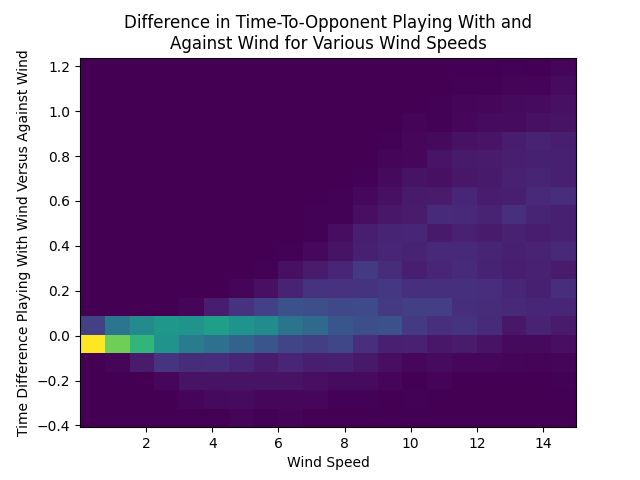
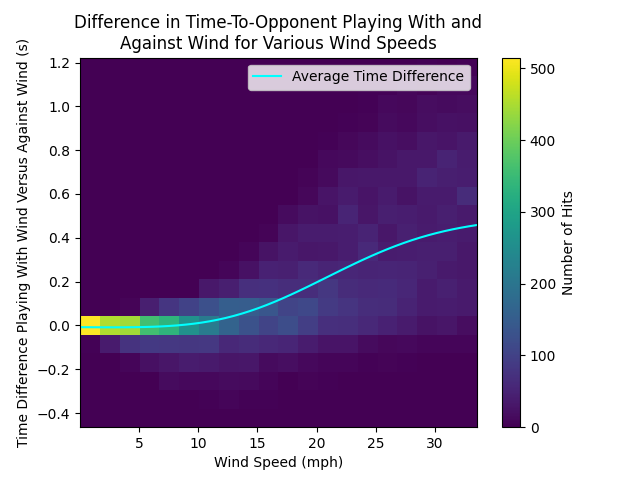
Got times plot, trajectory plots, working on initial speeds

diff --git a/pickleball.py b/pickleball.py
@@ -3,6 +3,7 @@ import numpy.typing as npt
 import scipy.integrate as si
 import scipy.optimize as so
 import matplotlib.pyplot as plt
+import matplotlib.typing as ty
 # from mayavi import mlab
 from tqdm import tqdm
 
@@ -14,38 +15,32 @@ def main() -> None:
     INITIAL_SPEED_GUESS = 10.0
     COURT_LENGTH = f2m(44.0)
     GRAVITY = 9.81
-    N_RANDOM_SAMPLES = 1000
+    N_RANDOM_SAMPLES = 10000
+    KDE_STDEV = 2.0
+    MAX_WIND = 15.0
     
     print(f"Drag Coefficient: {DRAG_COEF} 1/m")
     
     # Plot the time difference histogram
-    time_difference_plot(N_RANDOM_SAMPLES, T_MIN, T_MAX, DRAG_COEF, GRAVITY, COURT_LENGTH, INITIAL_SPEED_GUESS)
+    # time_difference_plot(N_RANDOM_SAMPLES, MAX_WIND, T_MIN, T_MAX, DRAG_COEF, GRAVITY, COURT_LENGTH, INITIAL_SPEED_GUESS, KDE_STDEV)
     
-    # ax.set_xlabel("Initial Position (m)")
-    # ax.set_ylabel("Launch Angle (rad)")
-    # ax.set_zlabel("Time to Opponent (s)")
-    # ax.legend()
-    # plt.show()
+    # Plot the initial speed histogram
     
-    # # Plot results
-    # times_before_opponent = np.linspace(0.0, output.t_events[1][0], 100)
-    # times_after_opponent = np.linspace(output.t_events[1][0], output.t_events[0][0], 100)
-    # # Plot the ball trajectory
-    # plt.plot((output.sol(times_before_opponent)[NUM["x"]]), (output.sol(times_before_opponent)[NUM["y"]]), c="b")
-    # plt.plot((output.sol(times_after_opponent)[NUM["x"]]), (output.sol(times_after_opponent)[NUM["y"]]), c=(0.5,) * 3, ls=":")
-    # # Plot the court
-    # plt.axhline(0.0, c="k")
-    # plt.axvline(0.0, c="k")
-    # plt.axvline((COURT_LENGTH), c="k")
-    # plt.plot((COURT_LENGTH / 2.0, COURT_LENGTH / 2.0), (0.0, f2m(3.0)), c="k")
-    # # Show collision with opponent
-    # plt.scatter((output.y_events[1][0][0]), (output.y_events[1][0][2]), s=25, c="k", zorder=10)
-    # plt.text((output.y_events[1][0][0]), (output.y_events[1][0][2]), f"  {output.t_events[1][0]:.2} seconds")
-    # # Formatting
-    # plt.xlabel(NAMES[NUM["x"]])
-    # plt.ylabel(NAMES[NUM["y"]])
-    # plt.title(f"Ball Trajectory (Wind = {wind:.0f} m/s)")
-    # plt.show()
+    
+    # Plot some trajectories
+    for wind in (-15.0, 15.0, -5.0, 5.0):
+        trajectory_plot(x0=0.0, 
+                        angle=np.deg2rad(15.0), 
+                        y0=1.0, 
+                        opponent=f2m(40.0), 
+                        wind=wind, 
+                        tmin=T_MIN, 
+                        tmax=T_MAX, 
+                        drag_coef=DRAG_COEF, 
+                        gravity=GRAVITY, 
+                        court_length=COURT_LENGTH, 
+                        initial_speed_guess=INITIAL_SPEED_GUESS)
+    
     
     # # Plot speed over time
     # plt.plot(times_before_opponent, 
@@ -103,27 +98,71 @@ def main() -> None:
     # mlab.axes(xlabel="Initial Position", ylabel="Launch Angle", zlabel="Time to Opponent")
     # mlab.show()
 
+def kde(x: npt.ArrayLike, points: npt.ArrayLike, stdev: float) -> npt.ArrayLike:
+    points = np.asarray(points)
+    
+    return (np.sum(points[1, np.newaxis] * np.exp(-0.5 * ((points[0, np.newaxis] - x[:, np.newaxis]) / stdev) ** 2.0), axis=1)
+            / np.sum(np.exp(-0.5 * ((points[0, np.newaxis] - x[:, np.newaxis]) / stdev) ** 2.0), axis=1))
+
+def trajectory_plot(x0: float, 
+                    angle: float, 
+                    y0: float, 
+                    opponent: float, 
+                    tmin: float, 
+                    tmax: float, 
+                    drag_coef: float, 
+                    wind: float, 
+                    gravity: float, 
+                    court_length: float, 
+                    initial_speed_guess: float) -> None:
+    output = solve_system(x0, angle, y0, opponent, tmin, tmax, drag_coef, wind, gravity, court_length, initial_speed_guess)
+    
+    # Plot results
+    times_before_opponent = np.linspace(0.0, output.t_events[1][0], 100)
+    times_after_opponent = np.linspace(output.t_events[1][0], output.t_events[0][0], 100)
+    plt.figure()
+    # Plot the ball trajectory
+    plt.plot(m2f(output.sol(times_before_opponent)[0]), m2f(output.sol(times_before_opponent)[2]), c="b")
+    plt.plot(m2f(output.sol(times_after_opponent)[0]), m2f(output.sol(times_after_opponent)[2]), c=(0.5,) * 3, ls=":")
+    # Plot the court
+    plt.axhline(0.0, c="k")
+    plt.axvline(0.0, c="k")
+    plt.axvline(m2f(court_length), c="k")
+    plt.plot((m2f(court_length / 2.0), m2f(court_length / 2.0)), (0.0, 3.0), c="k")
+    # Show collision with opponent
+    plt.scatter(m2f(output.y_events[1][0][0]), m2f(output.y_events[1][0][2]), s=25, c="k", zorder=10)
+    plt.text(m2f(output.y_events[1][0][0]), m2f(output.y_events[1][0][2]), f"  {output.t_events[1][0]:.2} seconds")
+    # Formatting
+    plt.xlabel("Horizontal Position (feet)")
+    plt.ylabel("Vertical Position (feet)")
+    plt.title(f"Ball Trajectory (Wind = {wind:.0f} m/s)")
+    plt.savefig(f"Ball_Trajectory_wind_{wind:.0f}mps.png")
+
 def time_difference_plot(n_samples: int, 
+                         max_wind: float,
                          tmin: float, 
                          tmax: float, 
                          drag_coef: float, 
                          gravity: float, 
                          court_length: float, 
-                         initial_speed_guess: float) -> None:
+                         initial_speed_guess: float, 
+                         kde_stdev: float) -> None:
     """Plot the difference in time-to-opponent for a variety of wind speeds
 
     Args:
         n_samples (int): The number of random samples to calculate time for
+        max_wind (float): The maximum wind speed to plot
         tmin (float): The start time of the ODE solver
         tmax (float): The end time of the ODE solver
         drag_coef (float): The drag coefficient
         gravity (float): Gravitational acceleration
         court_length (float): The length of the court
         initial_speed_guess (float): The initial speed to guess when solving
+        kde_stdev (float): The standard deviation to use for kernel density estimation
     """
     
     # Initialize with random parameters
-    wind_rand = np.random.uniform(0.0, 15.0, n_samples)
+    wind_rand = np.random.uniform(0.0, max_wind, n_samples)
     x0_rand = np.random.uniform(0.0, f2m(15.0), n_samples)
     y0_rand = np.random.uniform(0.0, f2m(7.0), n_samples)
     angle_rand = np.random.uniform(np.deg2rad(0.0), np.deg2rad(30.0), n_samples)
@@ -160,11 +199,118 @@ def time_difference_plot(n_samples: int,
     
     print(f"{np.count_nonzero(np.isnan(times))} NaN events")
     
-    plt.hist2d(wind_rand[np.isfinite(times)], times[np.isfinite(times)], bins=20)
-    plt.xlabel("Wind Speed")
-    plt.ylabel("Time Difference Playing With Wind Versus Against Wind")
+    plt.hist2d(mps2mph(wind_rand[np.isfinite(times)]), times[np.isfinite(times)], bins=20)
+    wind_range = np.linspace(0.0, max_wind)
+    plt.plot(mps2mph(wind_range), 
+             kde(wind_range, (wind_rand[np.isfinite(times)], times[np.isfinite(times)]), kde_stdev), 
+             c="cyan", 
+             label="Average Time Difference")
+    plt.xlabel("Wind Speed (mph)")
+    plt.ylabel("Time Difference Playing With Wind Versus Against Wind (s)")
     plt.title("Difference in Time-To-Opponent Playing With and\nAgainst Wind for Various Wind Speeds")
-    plt.colorbar()
+    cbar = plt.colorbar()
+    cbar.set_label("Number of Hits")
+    plt.legend()
+    plt.show()
+
+def velocity_plot(n_samples: int, 
+                  max_wind: float,
+                  tmin: float, 
+                  tmax: float, 
+                  drag_coef: float, 
+                  gravity: float, 
+                  court_length: float, 
+                  initial_speed_guess: float, 
+                  kde_stdev: float) -> None:
+    """Plot the difference in time-to-opponent for a variety of wind speeds
+
+    Args:
+        n_samples (int): The number of random samples to calculate time for
+        max_wind (float): The maximum wind speed to plot
+        tmin (float): The start time of the ODE solver
+        tmax (float): The end time of the ODE solver
+        drag_coef (float): The drag coefficient
+        gravity (float): Gravitational acceleration
+        court_length (float): The length of the court
+        initial_speed_guess (float): The initial speed to guess when solving
+        kde_stdev (float): The standard deviation to use for kernel density estimation
+    """
+    
+    # Initialize with random parameters
+    wind_rand = np.random.uniform(0.0, max_wind, n_samples)
+    x0_rand = np.random.uniform(0.0, f2m(15.0), n_samples)
+    y0_rand = np.random.uniform(0.0, f2m(7.0), n_samples)
+    angle_rand = np.random.uniform(np.deg2rad(0.0), np.deg2rad(30.0), n_samples)
+    opponent_rand = np.random.uniform(f2m(29.0), f2m(44.0), n_samples)
+    
+    def hit_ground(_t: float, values: npt.ArrayLike, _drag_coef: float, _wind: float, gravity: float) -> float:
+        """Return the y position of the pickleball for detection of ground collision
+
+        Args:
+            - _t (float): Time at which to return the y position. Not used for returning y position
+            - values (npt.ArrayLike): The current values of [x position, x velocity, y position, y velocity]
+            - _drag_coef (float): The coefficient C used in the calculation of the drag force Cv**2. Not used for returning y position
+            - _wind (float): The wind velocity in the x direction. Not used for returning y position
+            - _gravity (float): Gravitational acceleration. Not used for returning y position
+
+        Returns:
+            - float: The y position of the pickleball
+        """
+        
+        return values[2]
+    hit_ground.terminal = True
+    
+    # Find velocity where ground touch is at end of court
+    optimal_speed = so.fsolve(lambda v: si.solve_ivp(derivatives, 
+                                                     (tmin, tmax), 
+                                                     (x0, v[0] * np.cos(angle), y0, v[0] * np.sin(angle)), 
+                                                     events=hit_ground, 
+                                                     args=(drag_coef, wind, gravity)).y_events[0][0][0] - court_length, 
+                              initial_speed_guess)[0]
+    
+    # Loop through and find times for all random params
+    times = np.zeros(n_samples)
+    for index, (wind, x0, y0, angle, opponent) in tqdm(enumerate(zip(wind_rand, x0_rand, y0_rand, angle_rand, opponent_rand))):
+        time_with_wind = solve_system(x0, 
+                                      angle, 
+                                      y0, 
+                                      opponent, 
+                                      tmin, 
+                                      tmax, 
+                                      drag_coef, 
+                                      wind, 
+                                      gravity, 
+                                      court_length, 
+                                      initial_speed_guess).t_events[1]
+        
+        time_against_wind = solve_system(x0, 
+                                         angle, 
+                                         y0, 
+                                         opponent, 
+                                         tmin, 
+                                         tmax, 
+                                         drag_coef, 
+                                         -wind, 
+                                         gravity, 
+                                         court_length, 
+                                         initial_speed_guess).t_events[1]
+        
+        times[index] = time_with_wind[0] - time_against_wind[0] if len(time_with_wind) > 0 and len(time_against_wind) > 0 else np.nan
+    
+    print(f"{np.count_nonzero(np.isnan(times))} NaN events")
+    
+    plt.hist2d(mps2mph(wind_rand[np.isfinite(times)]), times[np.isfinite(times)], bins=20)
+    wind_range = np.linspace(0.0, max_wind)
+    plt.plot(mps2mph(wind_range), 
+             kde(wind_range, (wind_rand[np.isfinite(times)], times[np.isfinite(times)]), kde_stdev), 
+             c="cyan", 
+             label="Average Time Difference")
+    plt.xlabel("Wind Speed (mph)")
+    plt.ylabel("Time Difference Playing With Wind Versus Against Wind (s)")
+    plt.title("Difference in Time-To-Opponent Playing With and\nAgainst Wind for Various Wind Speeds")
+    cbar = plt.colorbar()
+    cbar.set_label("Number of Hits")
+    plt.legend()
     plt.show()
 
 def solve_system(x0: float, 
@@ -177,7 +323,8 @@ def solve_system(x0: float,
                  wind: float, 
                  gravity: float, 
                  court_length: float, 
-                 inital_speed_guess: float) -> si._ivp.ivp.OdeResult:
+                 initial_speed_guess: float, 
+                 return_speed: bool = False) -> si._ivp.ivp.OdeResult | tuple[si._ivp.ivp.OdeResult, float]:
     def hit_ground(_t: float, values: npt.ArrayLike, _drag_coef: float, _wind: float, gravity: float) -> float:
         """Return the y position of the pickleball for detection of ground collision
 
@@ -217,14 +364,22 @@ def solve_system(x0: float,
                                                      (x0, v[0] * np.cos(angle), y0, v[0] * np.sin(angle)), 
                                                      events=hit_ground, 
                                                      args=(drag_coef, wind, gravity)).y_events[0][0][0] - court_length, 
-                              inital_speed_guess)[0]
+                              initial_speed_guess)[0]
     
     # Solve the differential equation with that velocity
-    return si.solve_ivp(derivatives, 
-                        (tmin, tmax), 
-                        (x0, optimal_speed * np.cos(angle), y0, optimal_speed * np.sin(angle)), 
-                        dense_output=True, 
-                        events=[hit_ground, reached_opponent], args=(drag_coef, wind, gravity))
+    if not return_speed:
+        return si.solve_ivp(derivatives, 
+                            (tmin, tmax), 
+                            (x0, optimal_speed * np.cos(angle), y0, optimal_speed * np.sin(angle)), 
+                            dense_output=True, 
+                            events=[hit_ground, reached_opponent], args=(drag_coef, wind, gravity))
+    else:
+        return (si.solve_ivp(derivatives, 
+                             (tmin, tmax), 
+                             (x0, optimal_speed * np.cos(angle), y0, optimal_speed * np.sin(angle)), 
+                             dense_output=True, 
+                             events=[hit_ground, reached_opponent], args=(drag_coef, wind, gravity)), 
+                optimal_speed)
 
 def derivatives(_t: float, current_values: npt.ArrayLike, drag_coef: float, wind: float, gravity: float) -> npt.ArrayLike:
     """Calculate the derivatives of x position, x velocity, y position, and y velocity. 
